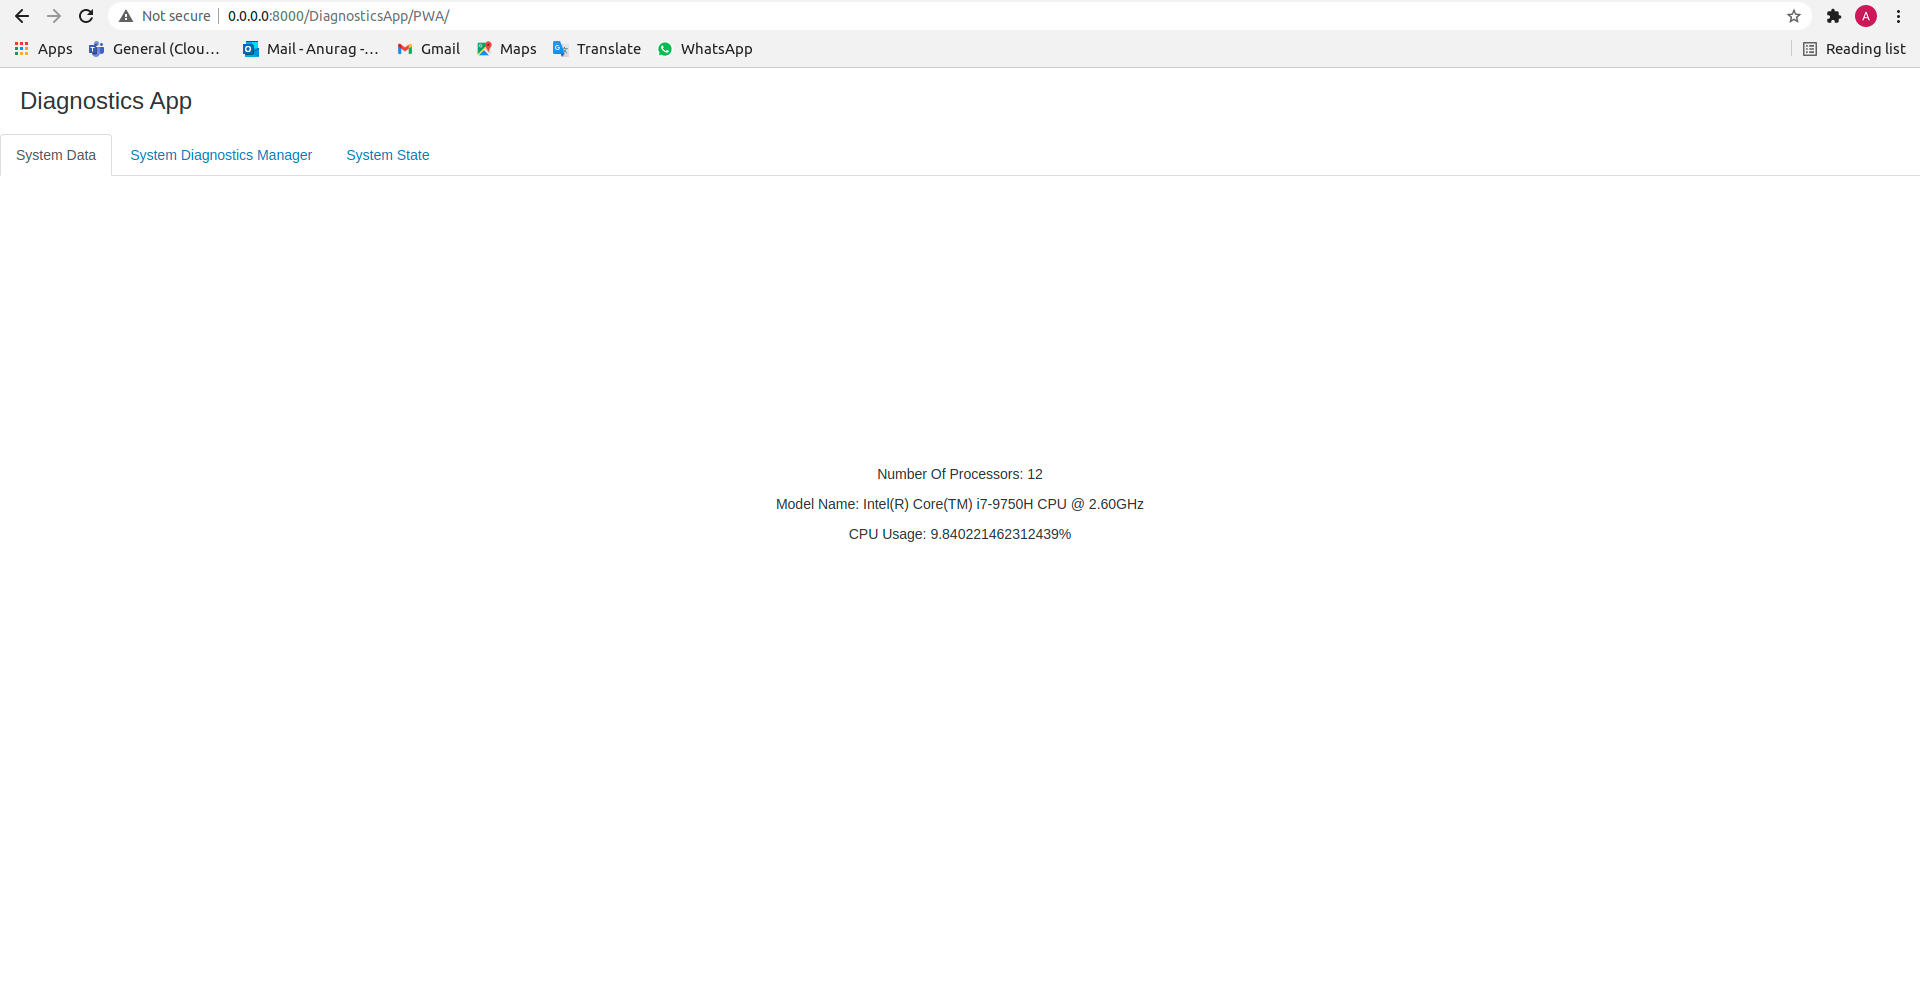
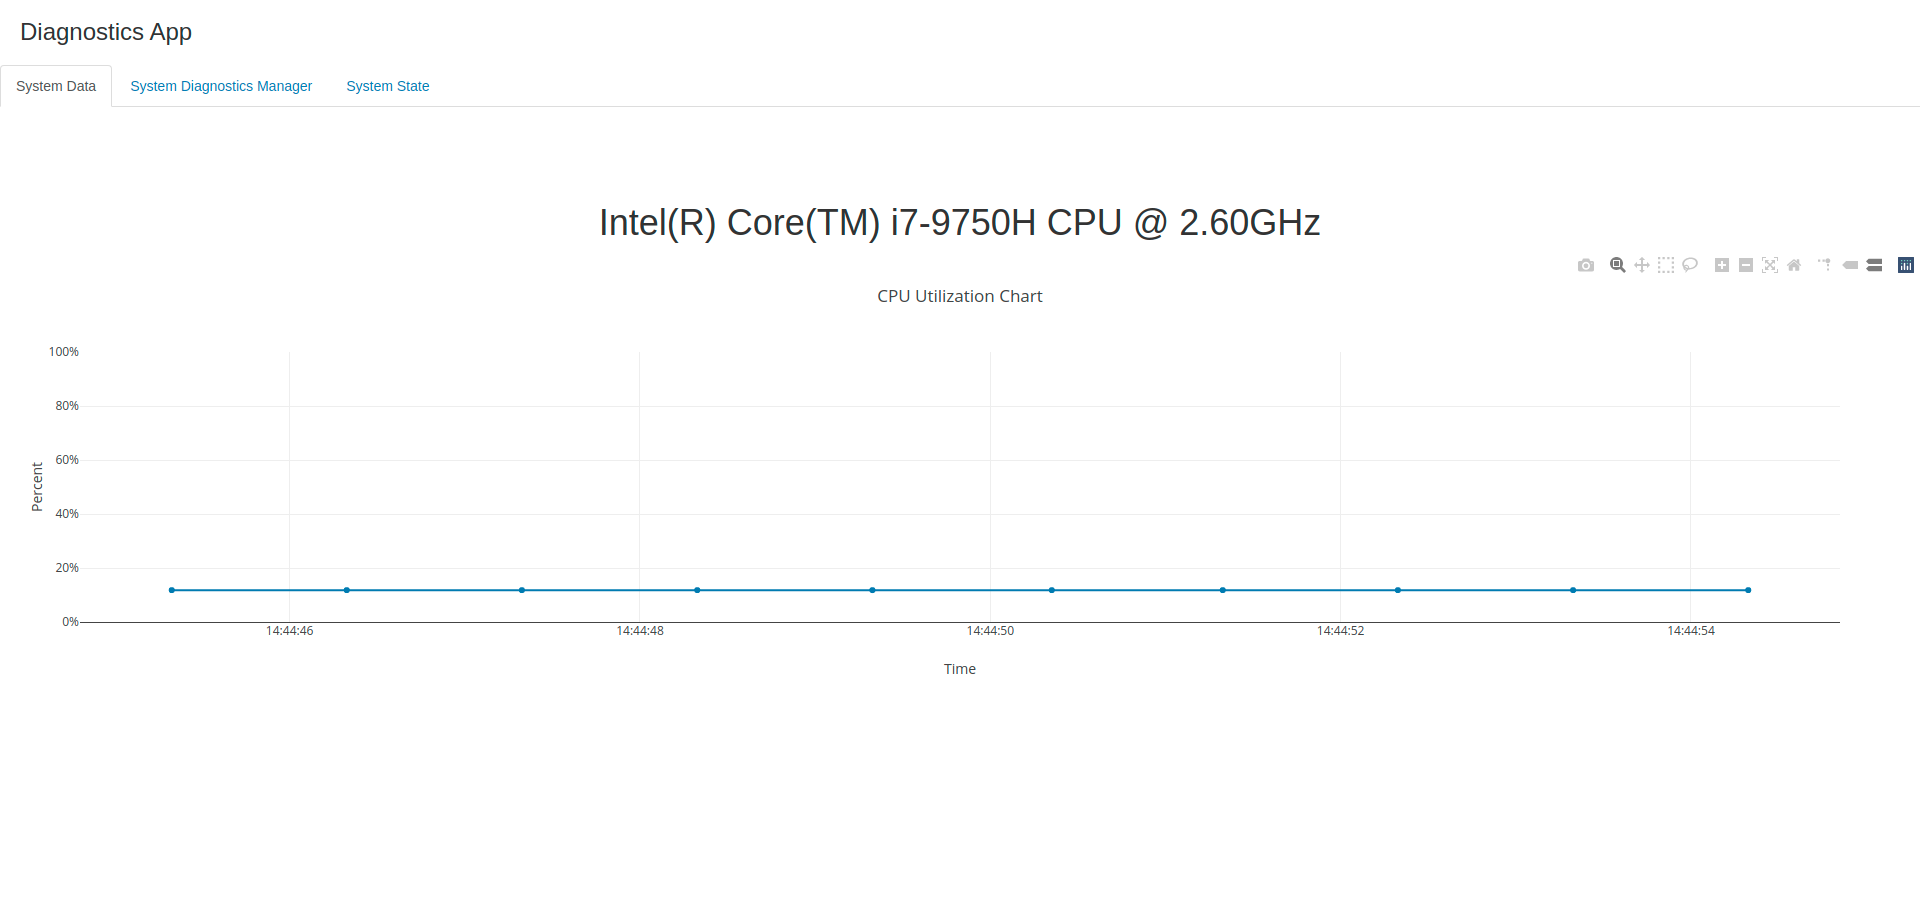
migrated manifest to v3, added external message passing instead of content script and added CPU Utilization chart

diff --git a/ChromeEntension/background.js b/ChromeEntension/background.js
@@ -1,31 +1,19 @@
 chrome.runtime.onInstalled.addListener(() => {
     console.log('Installed Application')
-
-    chrome.alarms.create('refresh', {periodInMinutes: 1})
 });
 
-chrome.alarms.onAlarm.addListener((alarm) => {
-  var cpuUsage = 0;
-  var totalTime = 0;
-  var occupiedTime = 0;
-  chrome.system.cpu.getInfo(function(info){
-    chrome.tabs.onUpdated.addListener(function(tabId, changeInfo, tab) { 
-      if (changeInfo.status == 'complete') {
-        for(i=0; i<info.processors.length; i++){
-          var processor = info.processors[i];
-          occupiedTime += (processor.usage.kernel + processor.usage.user);
-          totalTime += processor.usage.total;
-        };
-        cpuUsage = (occupiedTime/totalTime);
-        chrome.tabs.query({active:true, currentWindow:true}, function(tabs) {
-          chrome.tabs.sendMessage(tabs[0].id, {info: info, usage: cpuUsage}, function(response) {
-              console.log('Message has been sent successfully')
-              if (!chrome.runtime.lastError) {
-                  console.log(response.message)
-              }
-          });
-        });
-      }
-    });
+chrome.runtime.onMessageExternal.addListener(
+  function(request, sender, sendResponse) {
+    chrome.system.cpu.getInfo(function(info){
+      var cpuUsage = 0;
+      var totalTime = 0;
+      var occupiedTime = 0;
+      for(i=0; i<info.processors.length; i++){
+        var processor = info.processors[i];
+        occupiedTime += (processor.usage.kernel + processor.usage.user);
+        totalTime += processor.usage.total;
+      };
+      cpuUsage = (occupiedTime/totalTime);
+      sendResponse({numOfProcessors: info.numOfProcessors, modelName: info.modelName, usage: cpuUsage});
   });
 });

diff --git a/PWA/js/app.js b/PWA/js/app.js
@@ -1,0 +1,37 @@
+var editorExtensionId = "kblachlmfeagplmacljnmiikbcpanbci";
+
+var data = [{
+    x: [],
+    y: [],
+    type: 'scatter'
+}];
+
+var layout = {
+    title: 'CPU Utilization Chart',
+    xaxis: {
+      title: 'Time',
+      type: 'date',
+      tickformat: '%H:%M:%S'
+    },
+    yaxis: {
+      title: 'Percent',
+      tickformat: ',.0%',
+      range: [0,1]  
+    }
+};
+
+Plotly.newPlot(document.getElementById('chart'), data, layout);
+
+var interval = setInterval(function(){
+    chrome.runtime.sendMessage(editorExtensionId, {message: 'send data'},
+    function(response) {
+        console.log('received data');
+        let element = document.getElementById('model_name_id');
+        element.textContent = response.modelName;
+        data = {
+            x: [[new Date()]],
+            y: [[response.usage]]
+        };
+        Plotly.extendTraces(document.getElementById('chart'), data, [0], 10);
+    });
+}, 1000);

diff --git a/PWA/index.html b/PWA/index.html
@@ -8,6 +8,7 @@
         <link rel="stylesheet" href="https://maxcdn.bootstrapcdn.com/bootstrap/3.4.1/css/bootstrap.min.css">
         <script src="https://ajax.googleapis.com/ajax/libs/jquery/3.5.1/jquery.min.js"></script>
         <script src="https://maxcdn.bootstrapcdn.com/bootstrap/3.4.1/js/bootstrap.min.js"></script>
+        <script src="https://cdn.plot.ly/plotly-latest.min.js"></script>
     </head>
     <body>
         <h3 style="padding-left: 20px; padding-bottom: 10px;">Diagnostics App</h3>
@@ -16,7 +17,7 @@
             <li><a id="system-diagnostics-manager-tab">System Diagnostics Manager</a></li>
             <li><a id="system-state-tab">System State</a></li>
         </ul>
-        <div id="content" style="text-align: center; margin-top: 15%;"></div>
+        <div id="content" style="text-align: center; margin-top: 5%;"></div>
         <script src="index.js"></script>
     </body>
 </html>

diff --git a/PWA/tabs/system-data-tab.html b/PWA/tabs/system-data-tab.html
@@ -1,11 +1,10 @@
 <!DOCTYPE html>
 <html>
   <head>
-    <meta http-equiv="refresh" content="30">
+    <script src="../js/app.js"></script>
   </head>
     <body>
-        <p id="number_processor_id">Number Of Processors</p>
-        <p id="model_name_id">Model Name</p>
-        <p id="cpu_usage_id">CPU Usage</p>
+        <h1 id="model_name_id">Model Name</h1>
+        <div id="chart"></div>
     </body>
 </html>
